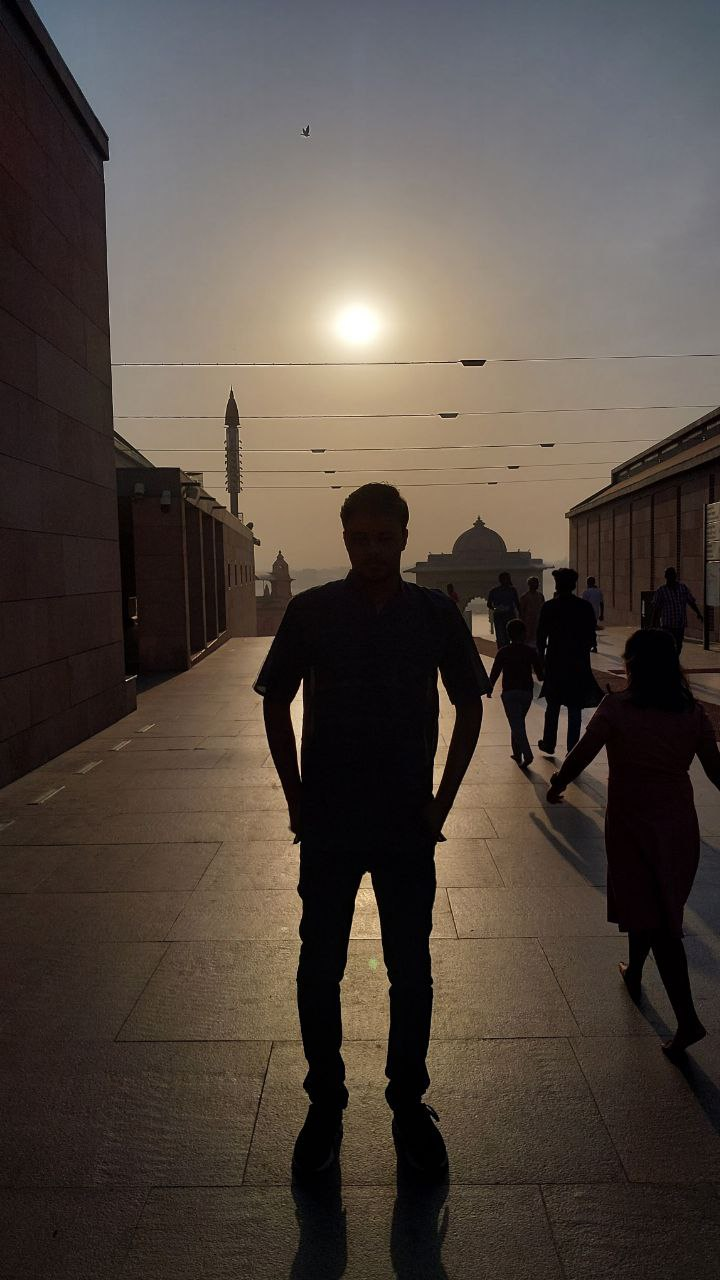
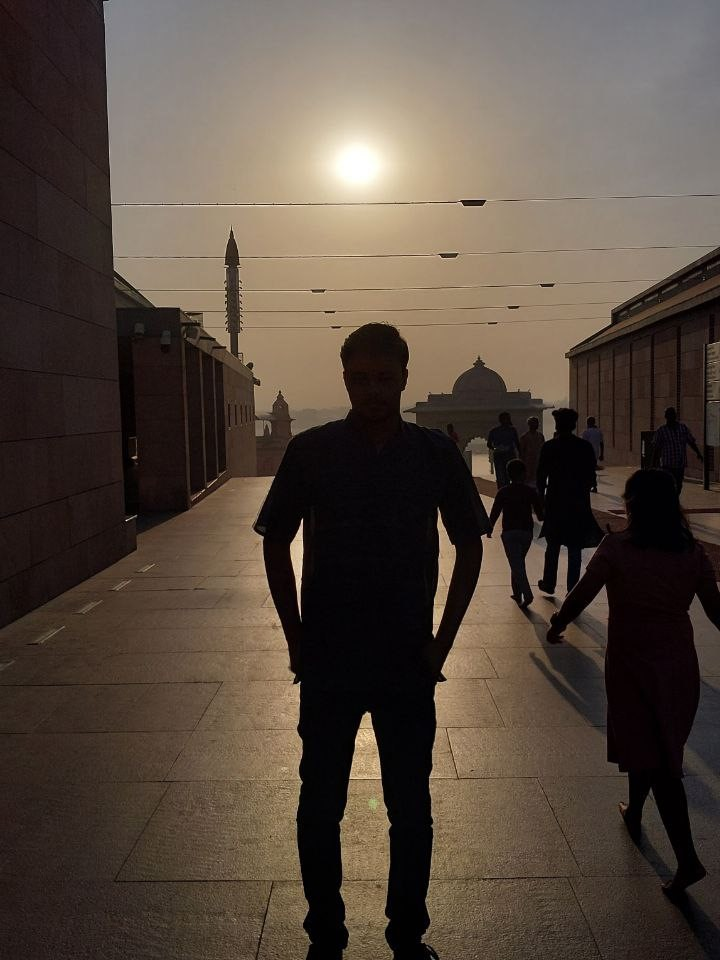
updated projects in the Projects section

diff --git a/Resume/index.html b/Resume/index.html
@@ -98,7 +98,7 @@
 
           <div class="hero-banner">
 
-            <img src="./assets/images/Vedansh.jpg" width="800" height="864" loading="lazy" alt="Vedansh's Photo"
+            <img src="./assets/images/vedansh-background.jpg" width="800" height="864" loading="lazy" alt="Vedansh's Photo"
               class="img-cover">
 
             <!-- <div class="elem elem-1">
@@ -165,10 +165,10 @@
 
           <figure class="about-banner">
 
-            <img src="./assets/images/Vedansh_phot.jpg" width="800" height="652" loading="lazy" alt="Ethan's Photo"
+            <img src="./assets/images/Vedansh_shadow.jpg" width="800" height="652" loading="lazy" alt="Ethan's Photo"
               class="img-cover">
 
-            <img src="./assets/images/Vedansh_shadow.jpg" width="800" height="717" loading="lazy" alt="Ethan's Photo"
+            <img src="./assets/images/vedansh_plant.jpg" width="800" height="717" loading="lazy" alt="Ethan's Photo"
               class="abs-img">
 
             <div class="abs-icon abs-icon-1">
@@ -244,44 +244,42 @@
 
                     <ion-icon name="arrow-forward"></ion-icon>
                     
-                  </span>
-                  
-                
-                  <!-- <span>
-                    
-                    <span class="btn-link" style="background-color: rgb(28, 26, 26); padding-left: 10px; margin-left: -10px; height: 30px; width: 130px; border-radius: 40px;">
-                      
-                      <span>GitHub Link</span>
-  
-                      <ion-icon name="arrow-forward"></ion-icon>
-                    </span>
-                  
-                    <span> -->
-                    
+                  </span>                   
                   
                 </span>
 
                 </div>
               </a>
-              <a style="background-color: rgb(28, 26, 26); padding-left: 10px; height: 30px; width: 130px; border-radius: 40px; display: flex;" href="https://github.com/vedansh2001/thread-app"  >GitHub Link <ion-icon style="background-color: rgb(28, 26, 26); padding-top: 6px; padding-left: 8px;" name="arrow-forward"></ion-icon></a>
+              <a style="background-color: rgb(28, 26, 26); padding-left: 10px; height: 30px; width: 130px; 
+              border-radius: 40px; display: flex;" href="https://github.com/vedansh2001/thread-app" >
+              GitHub Link <ion-icon style="background-color: rgb(28, 26, 26); padding-top: 6px; 
+              padding-left: 8px;" name="arrow-forward"></ion-icon></a>
             </li>
 
             <li>
-              <a href="#" class="portfolio-card" style="background-image: url('./assets/images/portfolio-2.jpg')">
+              <a href="https://github.com/vedansh2001/ecommerce" class="portfolio-card"  style= 
+                "background-image: url('./assets/images/ecommerce-background-image.png');
+                background-size: cover;
+                background-position: left;"
+              >
                 <div class="card-content">
 
-                  <p class="card-subtitle">Vimeo</p>
+                  <p class="card-subtitle" style="color: brown;">Furnreach</p>
 
-                  <h3 class="h3 card-title">Web Application for Desiverse</h3>
+                  <h3 class="h3 card-title" style="color: black;">An ecommerce furniture website</h3>
 
                   <span class="btn-link">
-                    <span>View Project</span>
+                    <span style="color: black;">View Project</span>
 
                     <ion-icon name="arrow-forward"></ion-icon>
                   </span>
 
                 </div>
               </a>
+              <a style="background-color: rgb(28, 26, 26); padding-left: 10px; height: 30px; width: 130px; 
+              border-radius: 40px; display: flex;" href="https://github.com/vedansh2001/ecommerce" >
+              GitHub Link <ion-icon style="background-color: rgb(28, 26, 26); padding-top: 6px; 
+              padding-left: 8px;" name="arrow-forward"></ion-icon></a>
             </li>
 
             
@@ -472,7 +470,7 @@
                   <div>
                     <h3 class="contact-item-title">Email</h3>
 
-                    <a href="mailto:hello@ethan.com" class="contact-item-link">vedanshm2001@gmail.com</a>
+                    <a href="mailto:vedanshm2001@gmail.com" class="contact-item-link">vedanshm2001@gmail.com</a>
                   </div>
 
                 </li>
@@ -486,7 +484,7 @@
                   <div>
                     <h3 class="contact-item-title">Phone</h3>
 
-                    <a href="tel:+1234567890" class="contact-item-link">9929072052</a>
+                    <a href="tel:+9929072052" class="contact-item-link">9929072052</a>
                   </div>
 
                 </li>
